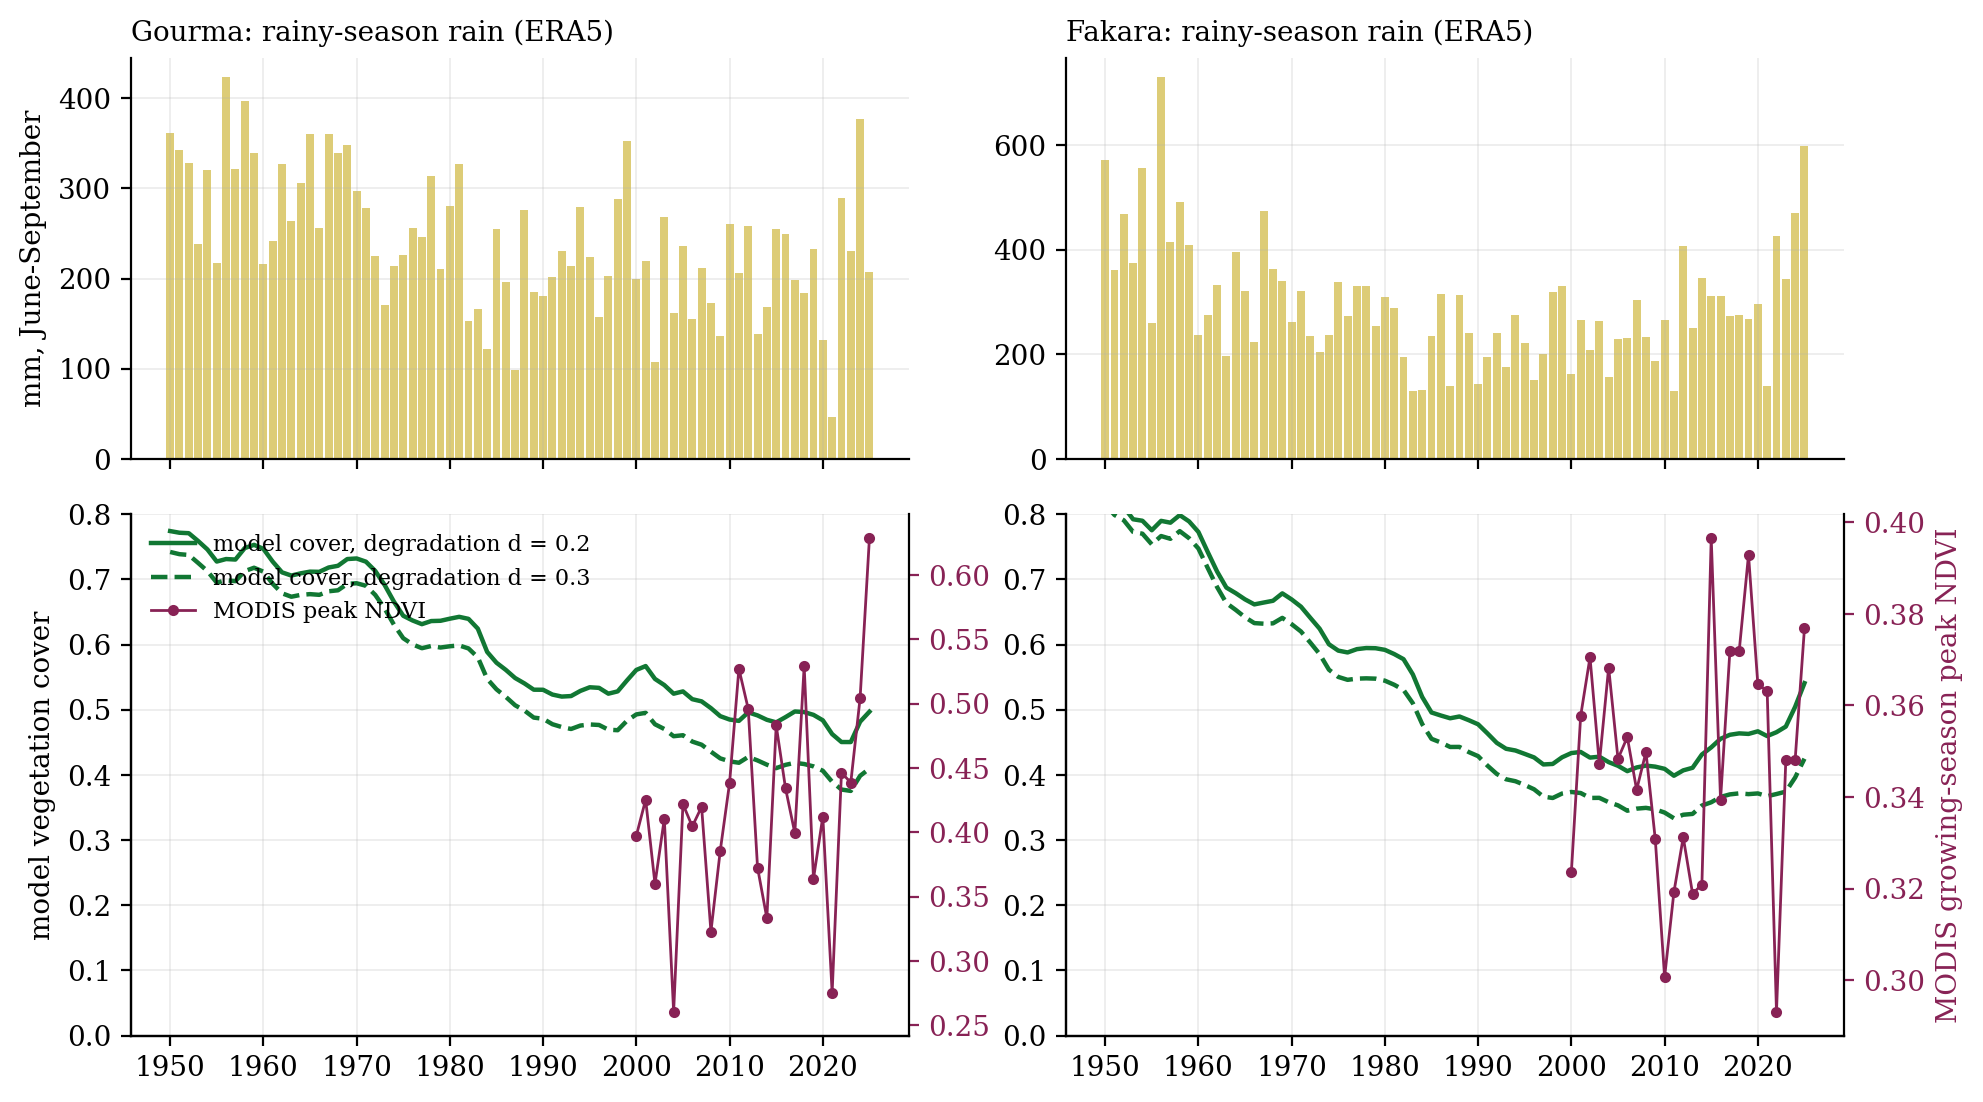
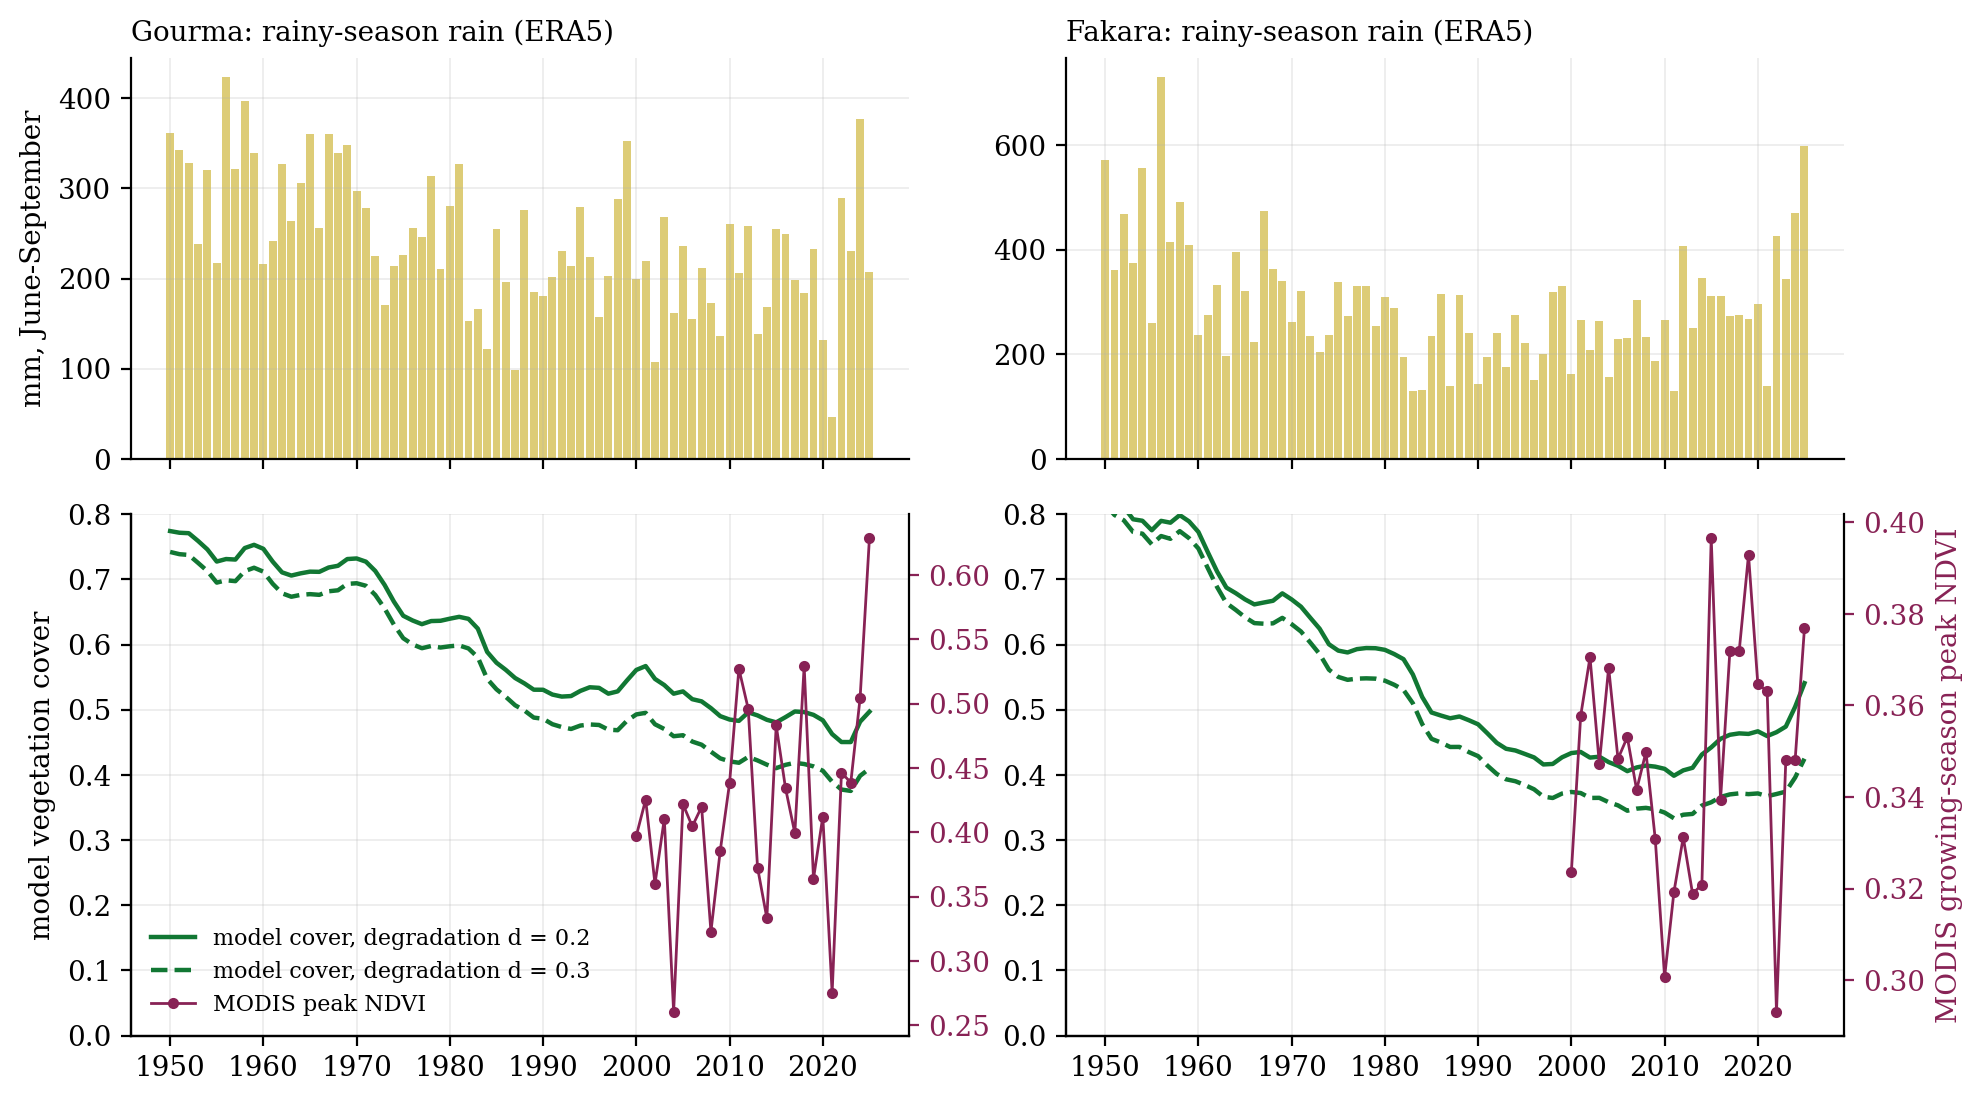
016: rainfall-driven site runs at Gourma and Fakara; complete

Changed region(s): [[0.0615, 0.833, 0.2769, 0.9256], [0.0923, 0.4936, 0.2769, 0.5554]]

diff --git a/016-sahel-desertification/make_figures.py b/016-sahel-desertification/make_figures.py
@@ -131,7 +131,7 @@ def fig5_sites():
         if j == 0:
             h1, l1 = ax.get_legend_handles_labels()
             h2, l2 = tw.get_legend_handles_labels()
-            ax.legend(h1 + h2, l1 + l2, loc="upper left", fontsize=8)
+            ax.legend(h1 + h2, l1 + l2, loc="lower left", fontsize=8)
     fig.tight_layout()
     figstyle.save(fig, os.path.join(FIG, "fig5_sites"))
 

diff --git a/016-sahel-desertification/README.md b/016-sahel-desertification/README.md
@@ -21,7 +21,12 @@ $b$ is environmental quality (rainfall). $f$ is the neighbour coupling, the same
 
 ![Sentinel-2 NDVI at the two sites beside the model lattice](figures/fig4_patterns.png)
 
-**Next: real rainfall at two real sites.** Gourma (Mali) re-greened after the droughts; Fakara (Niger), with similar rain, kept losing vegetation under heavy cropping and grazing (Dardel et al. 2014). `run_sites.py` drives the lattice with each site's 1950–2025 rainy-season rain and compares it with MODIS greenness from 2000, at two degradation rates. The question is whether land use alone, through $d$, separates the two fates.
+**Two real sites: rain is not the whole story.** Gourma (Mali) re-greened after the droughts. Fakara (Niger) did not, under heavy cropping and grazing (Dardel et al. 2014). The lattice is driven with each site's rainy-season rain from 1950 to 2025 (ERA5), scaled so the wet 1950s and 60s sit at $b = 0.75$, and compared with MODIS greenness from 2000.
+- **The real droughts never push the model over its edge.** Smoothed over three years, the 1980s take $b$ down only to about 0.35. Model cover falls from about 0.75 to 0.5 and never collapses.
+- **Gourma's vegetation follows its rain; Fakara's has stopped.** At Gourma, the growing-season peak of greenness tracks each year's rain (r = 0.54). It has risen since 2000 although the rain barely changed (200 mm a season in 2000–12, 208 mm in 2013–25). At Fakara, rain rose by 42% (234 to 332 mm) while greenness stayed flat and stopped tracking it at all (r = 0.02).
+- **So the model cannot tell the sites apart, and should not be able to.** With the same rules and a degradation rate fixed in time ($d$ = 0.2 or 0.3), the lattice cannot separate them. Its correlation with greenness is −0.15 to −0.23 at Gourma and 0.39 to 0.42 at Fakara. What separates the two sites is something rain cannot supply: at Fakara, how the land is used now decides the vegetation more than the climate does. Writing that in means a degradation rate that rises with cropping and grazing over time, the obvious next step.
+
+![Rainfall, model cover and MODIS greenness at Gourma and Fakara](figures/fig5_sites.png)
 
 **Built:** a Numba lattice with asynchronous updates and periodic edges; patch labelling across the periodic boundary and a spanning-cluster test; mean-field and pair-approximation ODEs swept by continuation; early-warning statistics; Sentinel-2 NDVI patch maps from Planetary Computer; MODIS NDVI from the ORNL DAAC service; and rainfall-driven runs at two sites.
 

diff --git a/README.md b/README.md
@@ -16,7 +16,7 @@ Thirteen side projects across earth systems, signal processing, commodity and en
 | <img src="013-coffee-forward-curves/figures/fig1_frost_2021.png" width="320"> | **[013 · Coffee, frost and the forward curve](013-coffee-forward-curves)** | Does coffee move with the frost forecast or with the frost? Archived ECMWF and GFS forecasts against arabica futures and a Schwartz two-factor curve. |
 | <img src="014-copper-satellite-signals/figures/fig3_smelters.png" width="320"> | **[014 · Copper seen from space](014-copper-satellite-signals)** | Ships at copper ports and furnaces in shortwave infrared: the supply is visible, and already in the price. |
 | <img src="015-commodity-option-hedging/figures/fig2_copper_2025.png" width="320"> | **[015 · Hedging commodity options through a shock](015-commodity-option-hedging)** | Eight hedges on six commodities: in a shock, how you hedge barely matters; the volatility you sold at does. |
-| <img src="016-sahel-desertification/figures/fig1_hysteresis.png" width="320"> | **[016 · Desertification in the Sahel](016-sahel-desertification)** | Plants that help plants: a lattice model that tips, signals it from space first, and is driven by real Sahel rainfall. |
+| <img src="016-sahel-desertification/figures/fig1_hysteresis.png" width="320"> | **[016 · Desertification in the Sahel](016-sahel-desertification)** | Plants that help plants: a lattice that tips, warns from space first, and shows rain alone cannot explain which Sahel sites re-greened. |
 | <img src="earlier-work/pde-solvers-cpp/figures/cover.png" width="320"> | **[009 · PDEs by over-relaxation](earlier-work/pde-solvers-cpp)** | Laplace's equation in C++ and a cost surface for SOR, then the same solver pricing American options. *Undergraduate.* |
 | <img src="earlier-work/potts-monte-carlo-cpp/figures/cover.png" width="320"> | **[010 · The Potts model](earlier-work/potts-monte-carlo-cpp)** | Monte Carlo through a phase transition, and the seed of the coral reef model. *Undergraduate.* |
 | <img src="earlier-work/higher-order-odes-cpp/figures/cover.png" width="320"> | **[011 · Higher-order ODEs](earlier-work/higher-order-odes-cpp)** | Runge–Kutta by hand, fourth-order convergence, and the shooting method. *Undergraduate.* |
